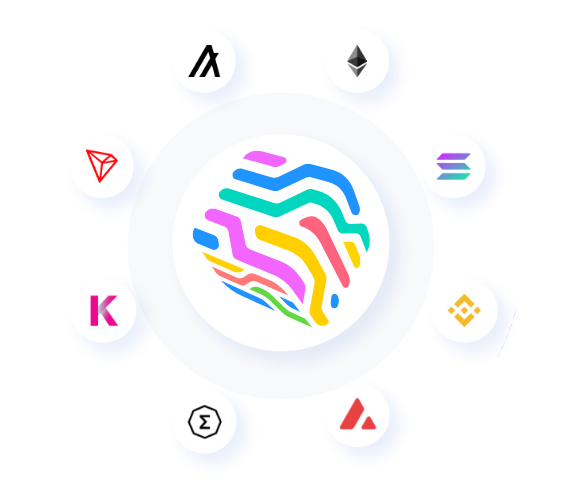
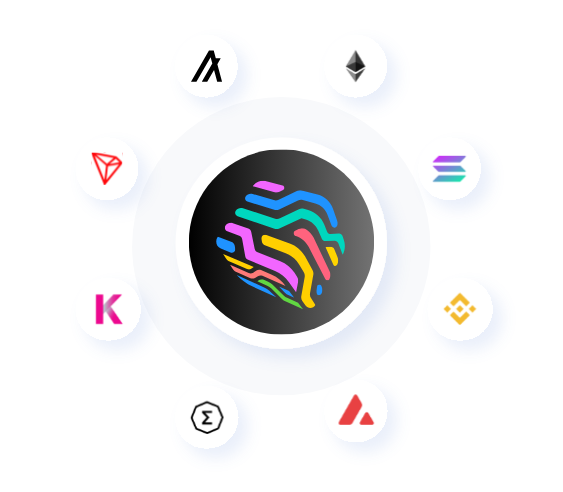
multi edit

diff --git a/src/pages/big-tokens.tsx b/src/pages/big-tokens.tsx
@@ -107,7 +107,7 @@ function TokenHolders(): JSX.Element {
                   className="tw-lead-sm md:tw-lead mb-0 relative"
                   variants={transitions.item}
                 >
-                  Engage with the BigFile and its ecosystem through
+                  Engage with the BigFile and its ecosystem through <br />
                   the use of its native utility token.
                 </motion.p>
               </div>
@@ -132,21 +132,19 @@ function TokenHolders(): JSX.Element {
                 className="tw-heading-4 md:tw-heading-3 mb-6 text-gradient"
                 variants={transitions.item}
               >
-                It empowers computation, staking, voting, governance and ownership.{" "}
+                It empowers computation, staking, voting, governance, and ownership.{" "}
               </motion.h2>
               <motion.p
                 className="tw-paragraph md:tw-lead-sm text-black/60 mb-3"
                 variants={transitions.item}
               >
-                The BIG token plays a number of roles on the BigFile.
-                Firstly, as a governance token, it can be staked to exercise those governance rights. As a utility token, it can be burned to obtain ‘cycles‘ which serves as gas for computation and storage in Cube smart contracts. It can also be minted to reward ‘node machine‘ providers for providing that compute and storage.
+                The BIG token serves multiple roles on the BigFile. Firstly, as a governance token, it can be staked to exercise governance rights. As a utility token, it can be burned to obtain "cycles," which serve as gas for computation and storage in Cube smart contracts. Additionally, BIG tokens can be minted to reward node machine providers for supplying compute and storage resources.
               </motion.p>
               <motion.p
                 className="tw-paragraph md:tw-lead-sm text-black/60 mb-3"
                 variants={transitions.item}
               >
-                In addition to these core uses, BIG tokens can be used to
-                participate in decentralisation swaps to become a co-owner of an SNS DAO, and when using many smart contract services built on the BigFile such as registries, marketplaces and exchanges.
+                In addition to these core uses, BIG tokens can be used to participate in decentralization swaps to become a co-owner of an SNS DAO, as well as in various smart contract services built on the BigFile, such as registries, marketplaces, and exchanges.
               </motion.p>
               <motion.p
                 className="tw-paragraph md:tw-lead-sm text-black/60 mb-0"
@@ -162,7 +160,7 @@ function TokenHolders(): JSX.Element {
               >
                 <h3 className="inline-flex items-center gap-3 mb-6">
                   <img
-                    src="/img/big-tokens/bf-token-logo.svg"
+                    src="/img/big-tokens/big-token-logo.svg"
                     alt="BIG logo"
                     loading="lazy"
                     className="w-16 h-16"
@@ -230,9 +228,7 @@ function TokenHolders(): JSX.Element {
                   Participate in governance
                 </h3>
                 <p className="tw-paragraph md:tw-lead-sm mb-6 text-black/60">
-                  The BigFile is run by the NNS, the largest
-                  DAO managing an L1 blockchain. BIG token holders can
-                  participate in network governance simply by staking tokens in neurons and locking them with a specified dissolve delay (time to unlock). A neuron with a dissolve delay greater than 6 months can vote on governance proposals and earn rewards. BIG neuron holders can also submit proposals to make changes to the protocol.
+                The BigFile is governed by the NNS, the largest DAO. BIG token holders can participate in network governance by staking tokens in neurons and locking them with a specified dissolve delay (the time required to unlock). A neuron with a dissolve delay greater than 6 months can vote on governance proposals and earn rewards. Additionally, BIG neuron holders can submit proposals to make changes to the protocol.
                 </p>
                 <p className="mb-0">
                   <Link

diff --git a/src/pages/capabilities/reverse-gas.tsx b/src/pages/capabilities/reverse-gas.tsx
@@ -134,7 +134,7 @@ function ReverseGasModelPage(): JSX.Element {
                   <div className="relative ">
                     <div className="flex gap-6 mb-5 pb-5 md:mb-8 md:pb-8 border-0 border-b border-solid border-black/20 mr-20">
                       <img
-                        src="/img/big-tokens/bf-token-logo.svg"
+                        src="/img/big-tokens/big-token-logo.svg"
                         alt=""
                         loading="lazy"
                         className="w-12 h-12 md:w-16 md:h-16"
